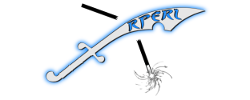
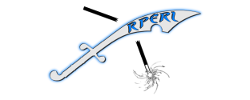
Images & Formatting Updates, New Tablet Images

Changed region(s): [[0.168, 0.03, 0.84, 0.87], [0.532, 0.39, 0.7, 0.93], [0.532, 0.81, 0.56, 0.84]]

diff --git a/the_book_of_rperl.html b/the_book_of_rperl.html
@@ -39,14 +39,15 @@ To Setting Orange, Bureaucracy 46th, YOLD 3179<br><br>
 
 
 <h2>Table Of Contents</h2>
-Chapter 0: Hello, World<br>
-Chapter 1: Of Saints & Wizards<br>
-Chapter 2: Onion Ring To Rule Them All<br>
-Chapter 3: A LAMP In The Dark Ages<br>
-Chapter 4: A New Hope<br><br>
+<a href="#book_0">Chapter 0: Hello, World</a><br>
+<a href="#book_1">Chapter 1: Of Saints & Wizards</a><br>
+<a href="#book_2">Chapter 2: Onion Ring To Rule Them All</a><br>
+<a href="#book_3">Chapter 3: A LAMP In The Dark Ages</a><br>
+<a href="#book_4">Chapter 4: A New Hope</a><br><br>
 
 
-<h2>Chapter 0: Hello, World</h2>
+<a name="book_0" class="anchor" href="#book_0"></a>
+<h3>Chapter 0: Hello, World</h3>
 
 Harken, brethren!  Harken, brothers and sisters in programming, to The Voice In The Wilderness.  I am The Voice, bringing you glad tidings of a great joy.<br><br>
 
@@ -59,7 +60,8 @@ The Voice is one of you, a programmer among programmers, a coder among coders, a
 Verily I say unto thee, The Voice speaks Truth via allegory in the wilderness of confusion.<br><br>
 
 
-<h2>Chapter 1: Of Saints & Wizards</h2>
+<a name="book_1" class="anchor" href="#book_1"></a>
+<h3>Chapter 1: Of Saints & Wizards</h3>
 
 In our digital world of Cyberia, created by The Great Programmer Of All Programmers, live many beings.<br><br>
 
@@ -98,7 +100,8 @@ There is a powerful new Empire of many colors, also capable of both great good a
 There are 3 Holy Saints elevated above the rest.  In YOLD 3149, Saint RMS gave to Cyberia the tools of GNU and the lawfulness of the GPL, in the form of a Wildebeest.  In YOLD 3157, Saint Linus gave to Cyberia the operating systems of Linux, in the form of a Penguin, married to the Wildebeest.  In YOLD 3153, Saint Larry took artistic license and the Wildebeest, and gave to Cyberia the programming languages of Perl, in the forms of an Onion and a Camel and a Pumpkin and a Butterfly.<br><br>
 
 
-<h2>Chapter 2: Onion Ring To Rule Them All</h2>
+<a name="book_2" class="anchor" href="#book_2"></a>
+<h3>Chapter 2: Onion Ring To Rule Them All</h3>
 
 In the beginning was the word, and the word was power, the power of programmability.  The power to make easy things easy, and hard things possible.  The power of digital magic.<br><br>
 
@@ -116,7 +119,8 @@ In those days there was no Perl King beyond Saint Larry, and to the people of Cy
 And so it came to pass in YOLD 3166 that Saint Larry left the Camel and Pumpkin, and taking a bite of the Onion, walked into the wilderness in search of further communion with The Great Programmer Of All Programmers.<br><br>
 
 
-<h2>Chapter 3: A LAMP In The Dark Ages</h2>
+<a name="book_3" class="anchor" href="#book_3"></a>
+<h3>Chapter 3: A LAMP In The Dark Ages</h3>
 
 It was foretold that Saint Larry would perform a miracle before Christmas, and it may yet come to pass, but the prophecy did not come to pass in those days.  Instead, Saint Larry undertook a great quest of many seasons, revealing the Camel's illness with the Apocalypses, and yet the Camel did not die.  And so it came to pass that Saint Larry gave to Cyberia the gift of a new Perl, the 6th Perl, in the form of a Butterfly, a younger sister of the Camel and a further embodiment of the spirit of the Onion.  The Butterfly was meant to make easy things trivial, hard things easy, and impossible things hard.<br><br>
 
@@ -131,7 +135,8 @@ While The Great Perl Brotherhood stumbled forward through its own dark age, the 
 And so it came to pass in YOLD 3170 that Jedi Master O'Reilly ushered in the Second Age of Cyberia.<br><br>
 
 
-<h2>Chapter 4: A New Hope</h2>
+<a name="book_4" class="anchor" href="#book_4"></a>
+<h3>Chapter 4: A New Hope</h3>
 
 Cyberia flourished in its Second Age, while the Perl Monks grew ever more reclusive.  Most of the menagerie grew ill or died.  The Camel and the Butterfly remained apart, the Onion remained split in two.  The Programmer Guild looked upon the Onion with pity and remorse.  But hope remained.<br><br>
 

diff --git a/the_low_magic_perl_commandments.html b/the_low_magic_perl_commandments.html
@@ -13,13 +13,13 @@
     <script src="//html5shiv.googlecode.com/svn/trunk/html5.js"></script>
     <![endif]-->
 
-    <title>RPerl FAQ</title>
+    <title>The Low-Magic Perl Commandments</title>
   </head>
 
   <body>
     <header>
       <div class="inner">
-        <h1>The Low Magic Perl Commandments</h1>
+        <h1>The Low-Magic Perl Commandments</h1>
         <h2>Rules For Faster Perl.</h2>
         <img class="centered_h" src="images/tablets.png" width="100%">
         <a href="https://github.com/wbraswell/rperl" class="button_github"><small>Free & Open Source on&nbsp;</small>GitHub</a>
@@ -29,15 +29,34 @@
     <div id="content-wrapper">
       <div class="inner clearfix">
         <section id="main-content">
-          <h1><a name="faq" class="anchor" href="#faq"><span class="octicon octicon-link"></span></a>The Low Magic Perl Commandments</h1>
-            <h2>Last Update: October 20th, 2013</h2>
+          <h1><a name="faq" class="anchor" href="#faq"><span class="octicon octicon-link"></span></a>The Low-Magic Perl Commandments</h1>
+            <h2>Last Update: November 6th, 2013</h2>
 
 <h2>Table Of Contents</h2>
-<a href="#commandments_magic">Magic</a><br>
 <a href="#commandments_ideals">Ideals</a><br>
+<a href="#commandments_magic">Magic</a><br>
 <a href="#commandments_data">Data</a><br>
 <a href="#commandments_operations">Operations</a><br>
-<a href="#commandments_oo">Object-Orientation</a><br>
+<a href="#commandments_oo">Object-Orientation</a><br><br>
+
+<a name="commandments_ideals" class="anchor" href="#commandments_ideals"></a>
+<h3>Ideals</h3>
+<table>
+  <tr><td>THOU SHALT:</td><td>THOU SHALT NOT:</td></tr>
+  <tr>
+    <td>0.  Foobaz</td>
+    <td>1.  Boofaz</td>
+  </tr>
+  <tr>
+    <td>2.  Foobaz</td>
+    <td>3.  Boofaz</td>
+  </tr>
+  <tr>
+    <td>4.  Foobaz</td>
+    <td>5.  Boofaz</td>
+  </tr>
+</table>
+<br><br>
 
 <a name="commandments_magic" class="anchor" href="#commandments_magic"></a>
 <h3>Magic</h3>
@@ -45,11 +64,24 @@
 1.  BOOFAZ
 <br><br>
 
-<a name="commandments_ideals" class="anchor" href="#commandments_ideals"></a>
-<h3>Ideals</h3>
-8.  FOOBAZ
-9.  BOOFAZ
+<a name="commandments_data" class="anchor" href="#commandments_data"></a>
+<h3>Data</h3>
+0.  FOOBAZ
+1.  BOOFAZ
 <br><br>
+
+<a name="commandments_operations" class="anchor" href="#commandments_operations"></a>
+<h3>Operations</h3>
+0.  FOOBAZ
+1.  BOOFAZ
+<br><br>
+
+<a name="commandments_oo" class="anchor" href="#commandments_oo"></a>
+<h3>Object-Orientation</h3>
+0.  FOOBAZ
+1.  BOOFAZ
+<br><br>
+
 
         </section>
 
@@ -67,7 +99,7 @@
           </a>
           <hr/>
           <a href="the_low_magic_perl_commandments.html" class="button_the_low_magic_perl_commandments">
-            The Low Magic Perl Commandments
+            The Low-Magic Perl Commandments
           </a>
           <a href="https://trello.com/board/austin-pm-rperl-development/51b6b97215f60f9460006538" class="button_blank">
             <div class="centered_outer"><div class="centered_inner"><p>

diff --git a/faq.html b/faq.html
@@ -55,7 +55,7 @@
 <a href="#faq_how_compile">How can I get RPerl to compile my code?</a><br>
 <a href="#faq_how_tech_support">How can I get technical support for RPerl?</a><br>
 <a href="#faq_how_contrib_skills">How can I contribute my technical skills?</a><br>
-<a href="#faq_how_contrib_money">How can I contribute my financial resources?</a><br>
+<a href="#faq_how_contrib_money">How can I contribute my financial resources?</a><br><br>
 
 <a name="faq_who" class="anchor" href="#faq_who"></a>
 <h3>Q: Who needs RPerl?</h3>

diff --git a/stylesheets/stylesheet.css b/stylesheets/stylesheet.css
@@ -80,6 +80,7 @@ header h1 {
   margin-bottom: 0.2em;
 /*  width: 540px; */
 /*  width: 840px; */
+  width: 75%;
 }
 
 header h2 {
